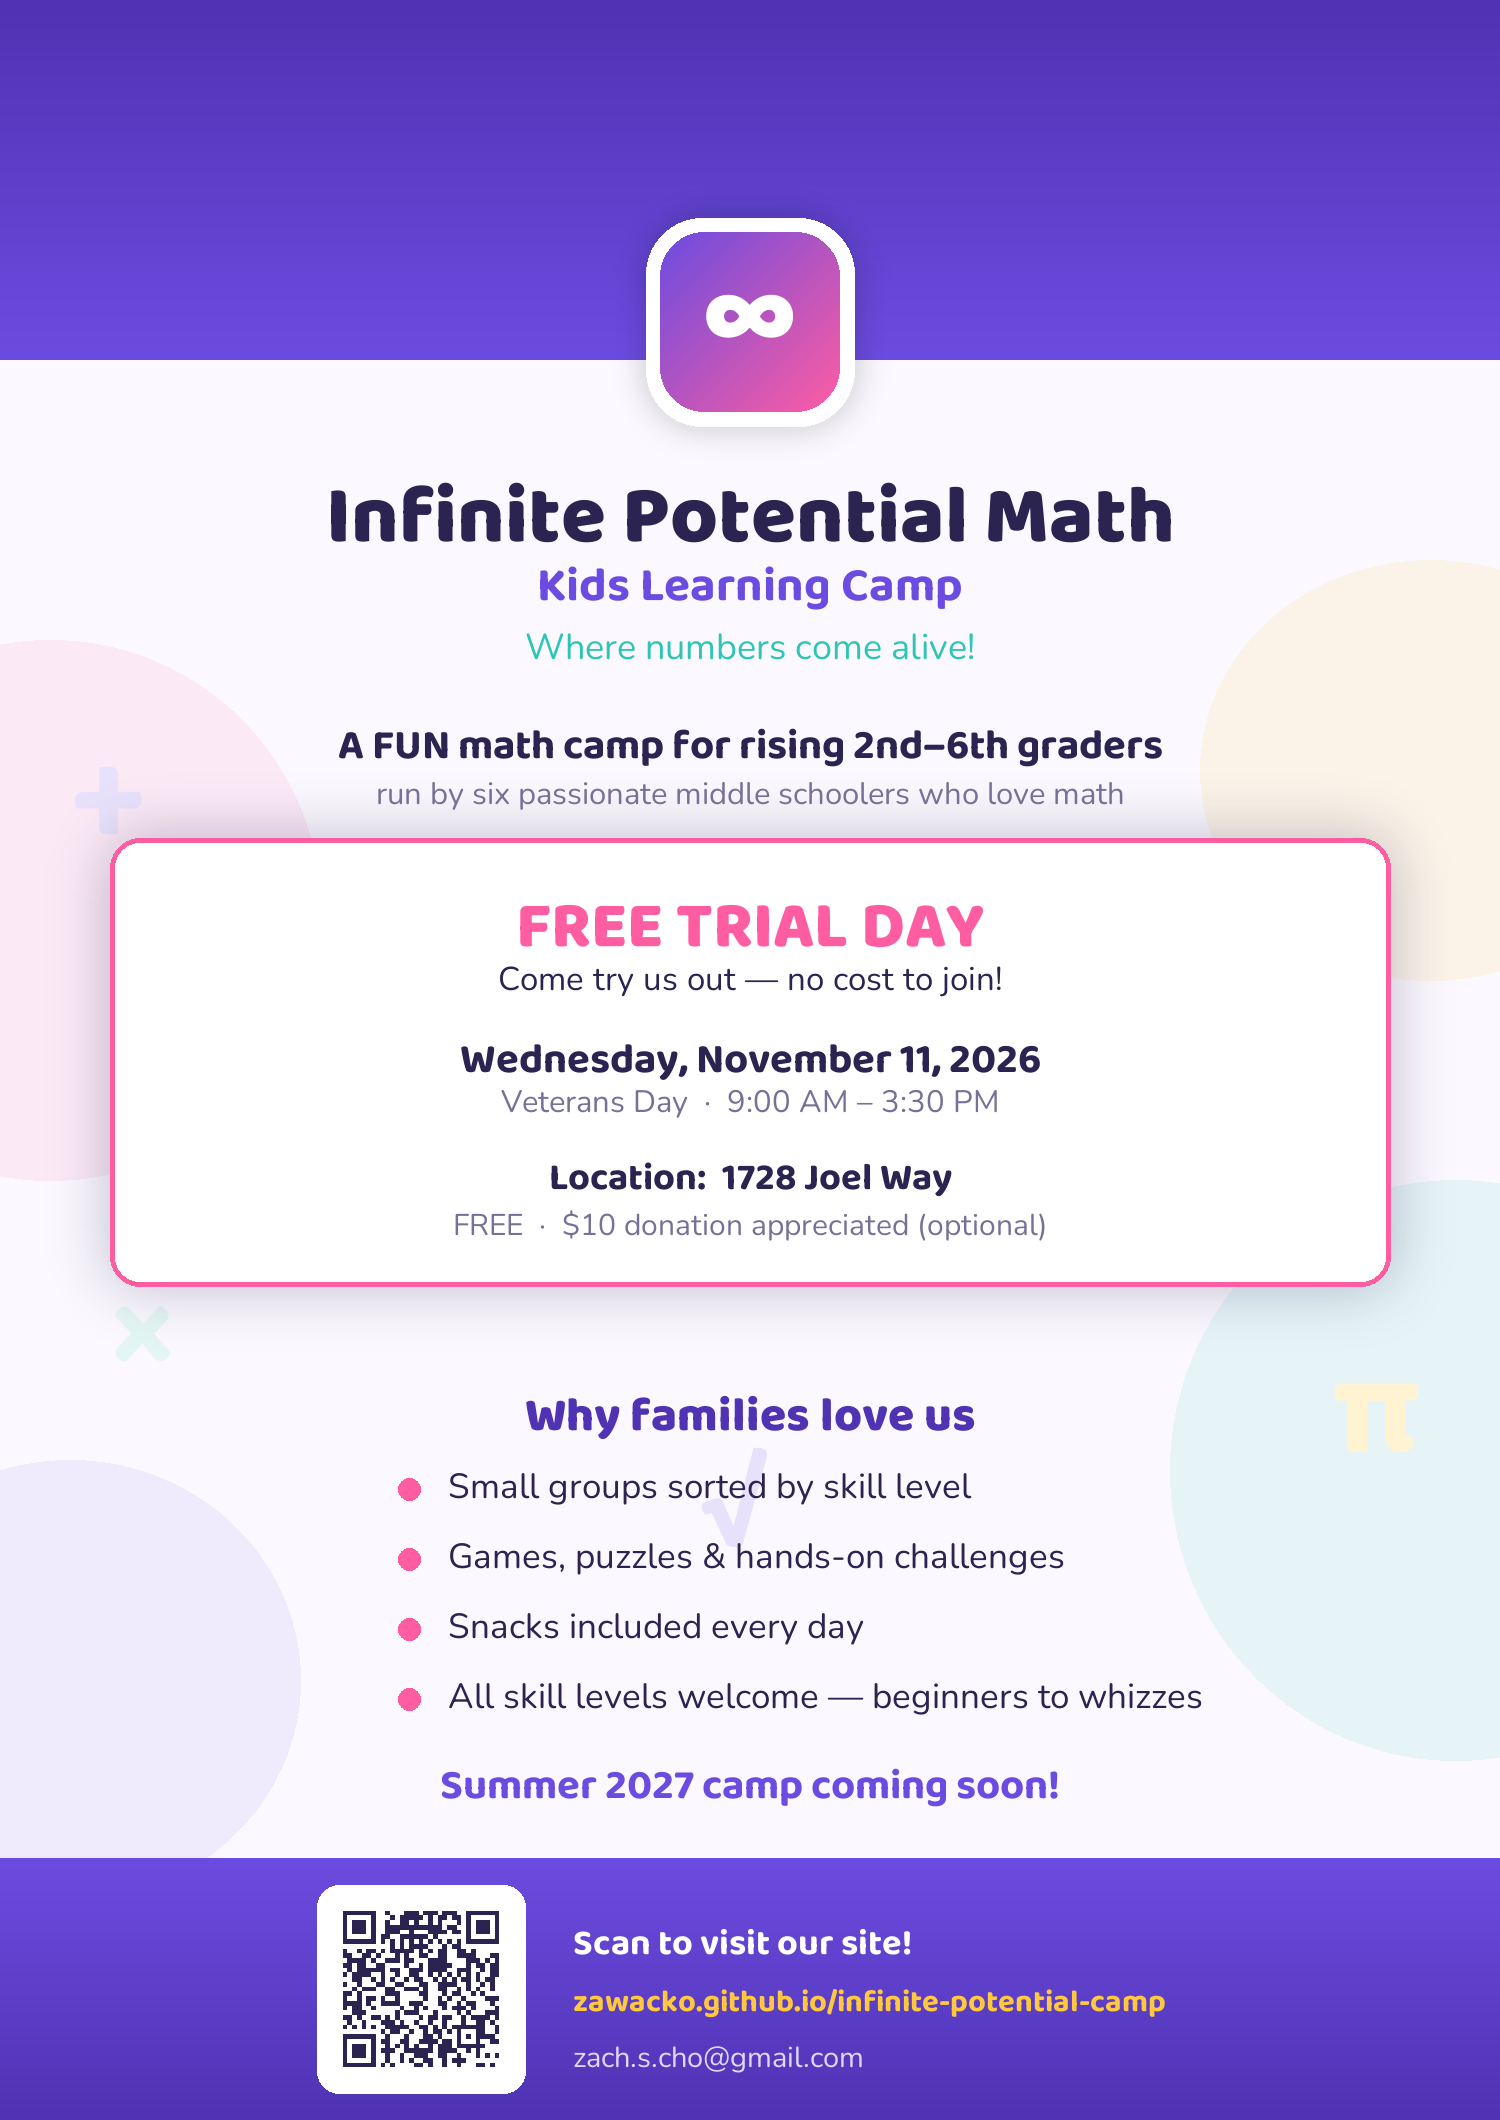
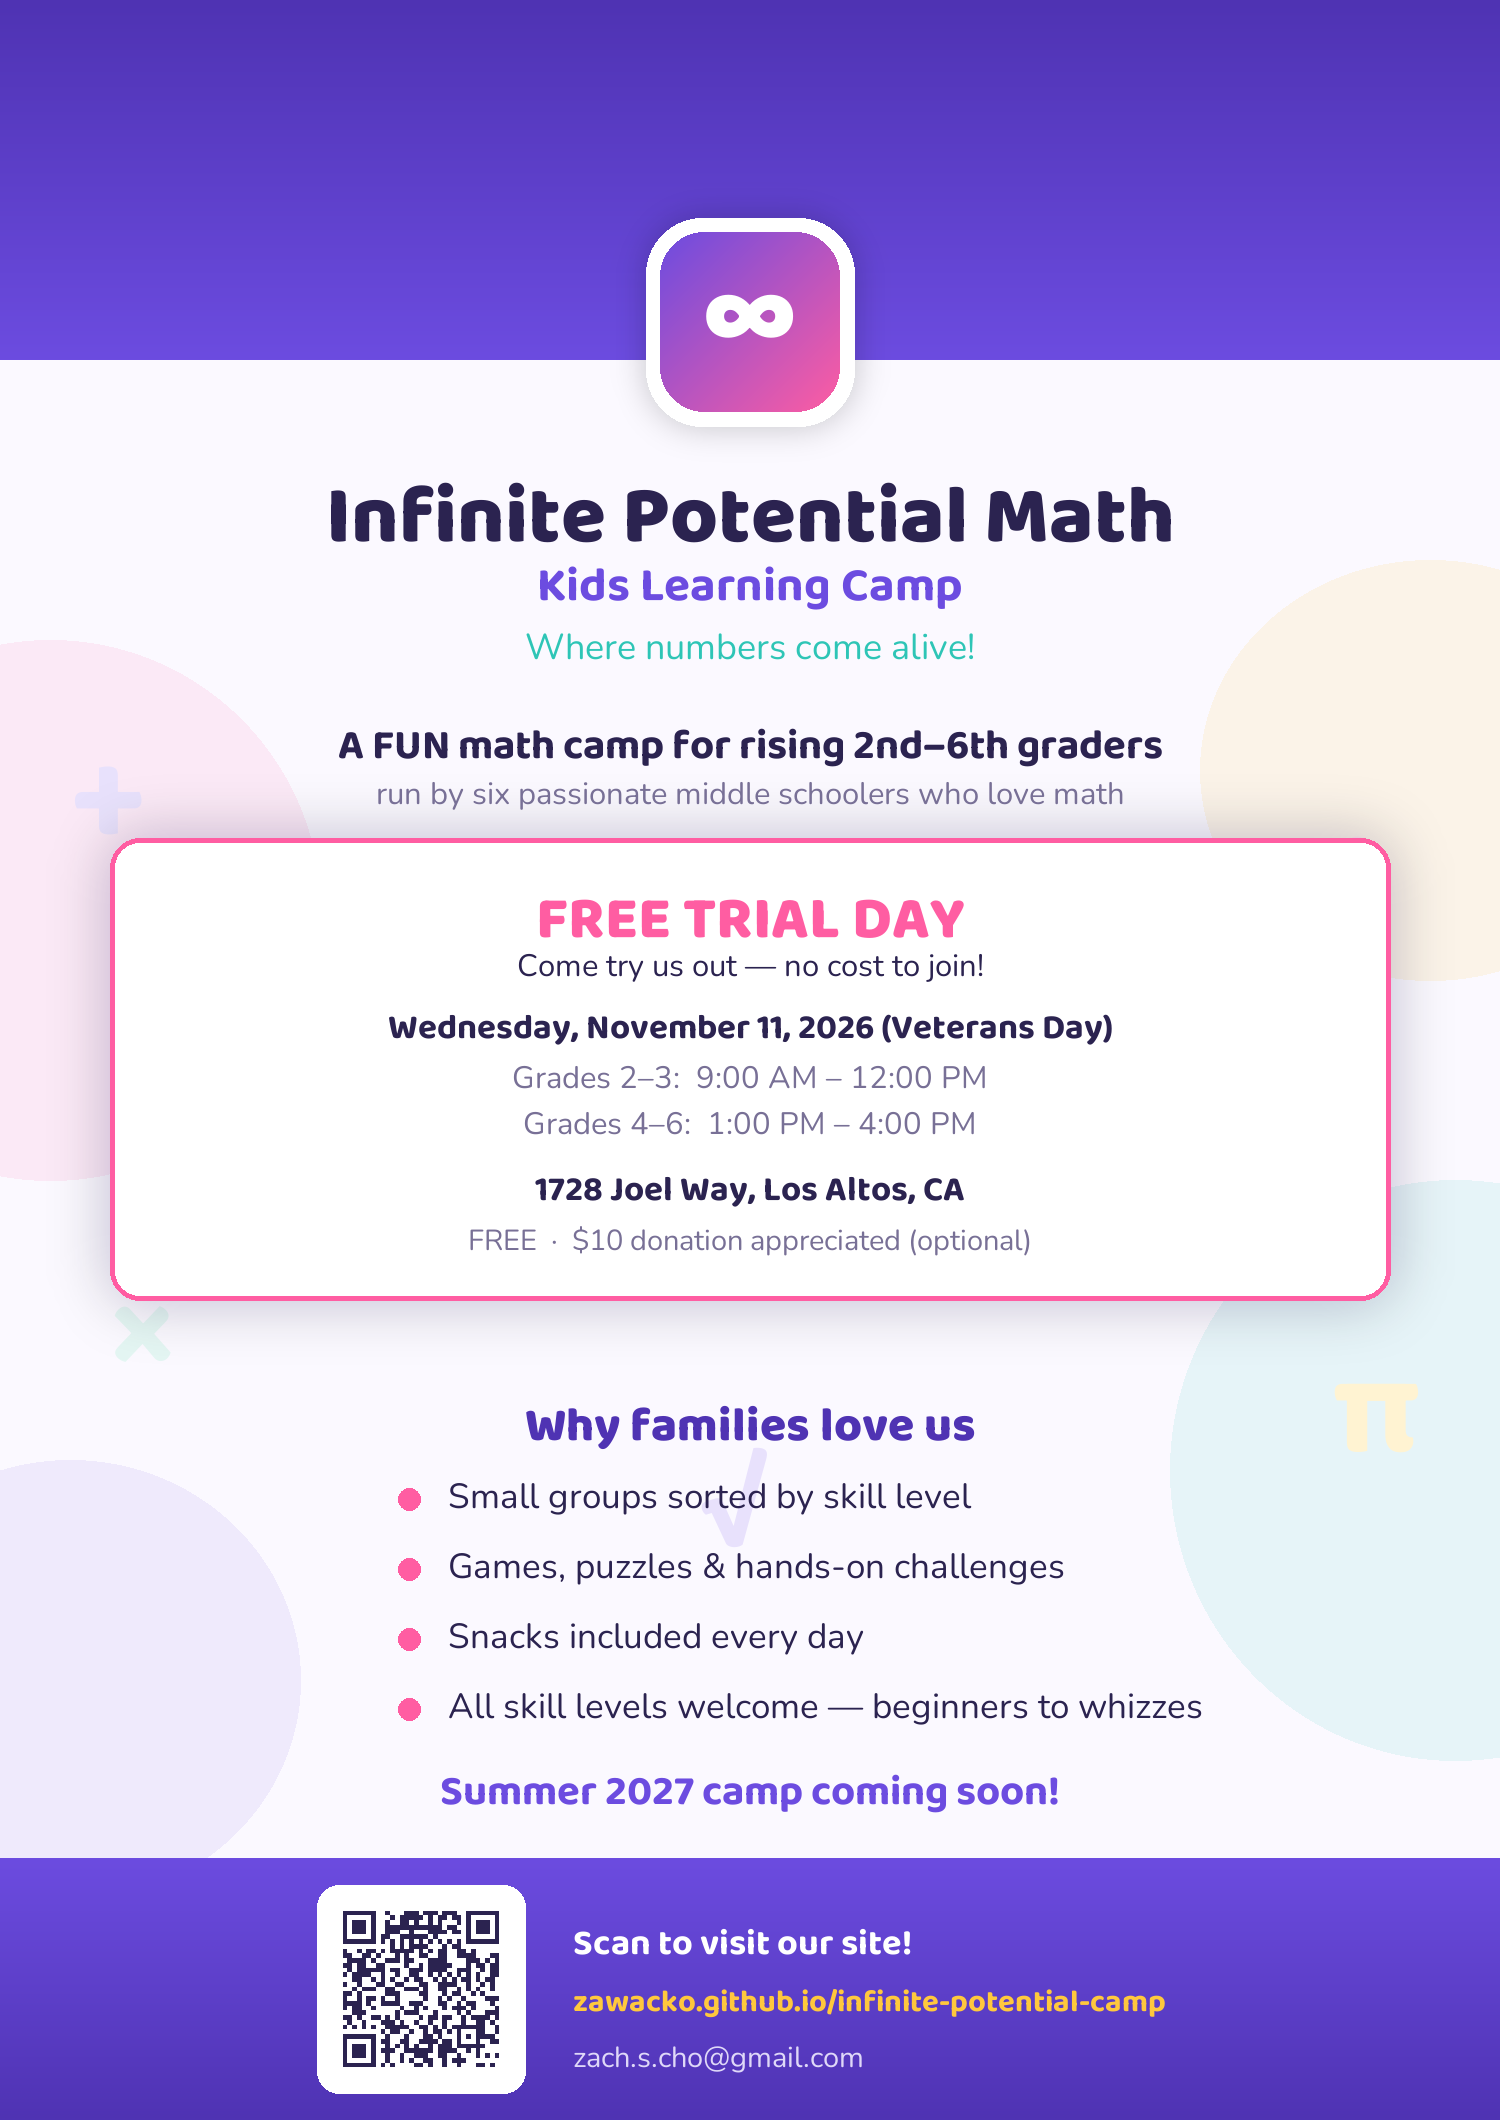
Free trial: split into grade sessions (2-3 AM, 4-6 PM), Los Altos location, no schedule; update Ellis bio and flyer

Changed region(s): [[0.0613, 0.4047, 0.92, 0.6226], [0.2453, 0.6538, 0.7053, 0.8717], [0.5827, 0.7783, 0.7973, 0.8094]]

diff --git a/index.html b/index.html
@@ -79,27 +79,14 @@
     <div class="trial-card">
       <p class="trial-eyebrow">🎉 Free Trial Day</p>
       <h2 class="trial-title">Try Us Free on Veterans Day!</h2>
-      <p class="trial-sub">Come experience a full day of Infinite Potential Math — no cost to join. It's the perfect way to see if camp is right for your child before summer.</p>
+      <p class="trial-sub">Come try Infinite Potential Math for free! Sessions are split by grade — just bring your camper for their time slot below.</p>
       <div class="trial-facts">
-        <div class="trial-fact"><span class="trial-fact-label">📅 When</span>Wednesday, November 11, 2026 (Veterans Day) · 9:00 AM – 3:30 PM</div>
-        <div class="trial-fact"><span class="trial-fact-label">📍 Where</span>1728 Joel Way</div>
+        <div class="trial-fact"><span class="trial-fact-label">📅 When</span>Wednesday, November 11, 2026 (Veterans Day)</div>
+        <div class="trial-fact"><span class="trial-fact-label">🌅 Grades 2–3</span>Morning session · 9:00 AM – 12:00 PM</div>
+        <div class="trial-fact"><span class="trial-fact-label">☀ Grades 4–6</span>Afternoon session · 1:00 PM – 4:00 PM</div>
+        <div class="trial-fact"><span class="trial-fact-label">📍 Where</span>1728 Joel Way, Los Altos, CA</div>
         <div class="trial-fact"><span class="trial-fact-label">💵 Cost</span>Free! A $10 donation is appreciated but totally optional.</div>
       </div>
-
-      <h3 class="trial-sched-title">Trial Day Schedule</h3>
-      <ul class="timeline trial-timeline">
-        <li><span class="time">9:00 – 9:30</span><span class="event">Check-in</span></li>
-        <li><span class="time">9:30 – 10:00</span><span class="event">Whole-group icebreakers</span></li>
-        <li><span class="time">10:00 – 10:30</span><span class="event">Individual math groups</span></li>
-        <li class="break"><span class="time">10:30 – 11:00</span><span class="event">Snacks &amp; break</span></li>
-        <li><span class="time">11:00 – 11:45</span><span class="event">Individual math groups</span></li>
-        <li><span class="time">11:45 – 12:00</span><span class="event">Morning closing</span></li>
-        <li class="break"><span class="time">12:00 – 1:00</span><span class="event">Lunch — details coming soon</span></li>
-        <li><span class="time">1:00 – 2:00</span><span class="event">Individual math groups</span></li>
-        <li class="break"><span class="time">2:00 – 2:45</span><span class="event">Whole-camp activity — outdoor games, music &amp; snacks</span></li>
-        <li><span class="time">2:45 – 3:00</span><span class="event">Final math groups &amp; closing</span></li>
-        <li class="break"><span class="time">3:00 – 3:30</span><span class="event">Check-out</span></li>
-      </ul>
 
       <a class="btn btn-primary btn-big" href="register.html">Register for the Free Trial</a>
     </div>

diff --git a/about.html b/about.html
@@ -106,7 +106,7 @@
         <div class="avatar" style="--c1:#ff8a5c; --c2:#ffc83d;">E</div>
         <h3>Ellis</h3>
         <p>Helper</p>
-        <p class="bio">Ellis is a rising sixth-grader at Blach Intermediate School. He enjoys learning math and solving math puzzles. He likes playing sports such as football, basketball, and sometimes soccer, but mainly he does taekwondo. Fun fact: He is a national medalist in taekwondo!</p>
+        <p class="bio">Ellis is a rising eighth-grader at Blach Intermediate School. He enjoys learning math and likes to solve math puzzles. He enjoys playing sports such as football, basketball, and sometimes soccer, but mainly he does taekwondo. Fun fact: He is a regional medalist in taekwondo!</p>
       </div>
     </div>
   </section>
